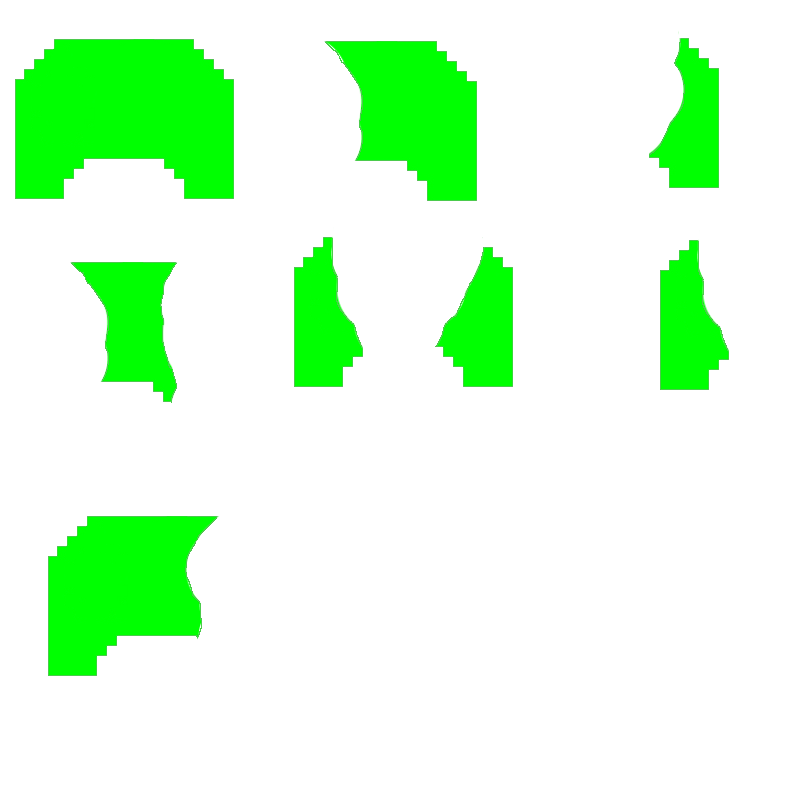
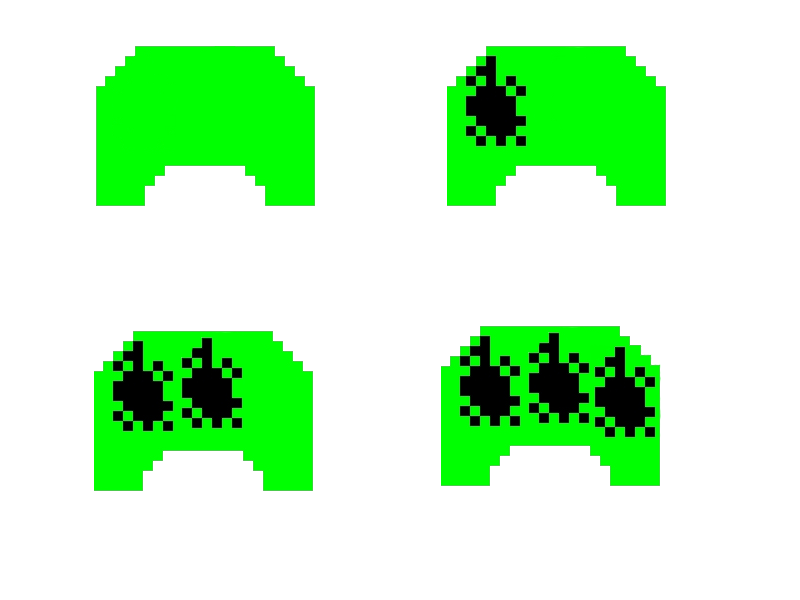
added Shields ability to die

diff --git a/Space_Invaders/Shield.cpp b/Space_Invaders/Shield.cpp
@@ -2,20 +2,19 @@
 
 SDL_Texture* Shield::m_pTexture = nullptr;
 
-Shield::Shield( float PosX, float PosY)
+Shield::Shield( float PosX, float PosY, shared_ptr<Gun> MyGun)
 {
+    m_Gun = MyGun;
+
     m_StartingPointPosition.x = PosX;
     m_StartingPointPosition.y = PosY;
-    m_ObjectSize.x = OBJECT_WIDTH;
+    m_ObjectSize.x = 1.2*OBJECT_WIDTH;
     m_ObjectSize.y = OBJECT_HEIGHT;
 
-    m_TextureDestructionLevel = {9, 33, 230, 190};
-    //m_TextureDestructionLevel = { 320, 33, 162, 190 };
-    //m_TextureDestructionLevel = { 644, 33, 79, 190 };
-    //m_TextureDestructionLevel = { 63, 258, 130, 150 };
-    //m_TextureDestructionLevel = { 291, 235, 228, 170};
-    //m_TextureDestructionLevel = { 657, 235, 73, 170 };
-    //m_TextureDestructionLevel = { 44, 504, 180, 190 };
+   // m_TextureDestructionLevel = {90, 43, 230, 190};
+   // m_TextureDestructionLevel = { 440, 43, 230, 180 };
+   // m_TextureDestructionLevel = { 90, 329, 230, 180 };
+   // m_TextureDestructionLevel = { 435, 329, 230, 170 };
 }
 
 void Shield::DestroyTexture()
@@ -32,8 +31,41 @@ void Shield::InitializeShieldTexture(SDL_Renderer* pRenderer)
 
 void Shield::Update(float DeltaTime)
 {
+    switch (m_DestructionLevel)
+    {
+    case 0:
+        m_TextureDestructionLevel = { 90, 43, 230, 190 };
+        break;
+    case 1:
+        m_TextureDestructionLevel = { 440, 43, 230, 180 };
+        break;
+    case 2:
+        m_TextureDestructionLevel = { 90, 329, 230, 180 };
+        break;
+    case 3:
+        m_TextureDestructionLevel = { 435, 329, 230, 170 };
+        break;
+    }
 
-  
+    vec2 ObjectTopLeftCorner = m_StartingPointPosition;
+    vec2 ObjectBottomRightCorner = m_StartingPointPosition + m_ObjectSize;
+
+    for (int i = 0; i < m_Gun->GetShots().size(); ++i)
+    {
+        if (m_Gun->GetShots()[i]->GetObjectPosition().x >= ObjectTopLeftCorner.x && m_Gun->GetShots()[i]->GetObjectPosition().x <= ObjectBottomRightCorner.x)
+        {
+            if (m_Gun->GetShots()[i]->GetObjectPosition().y <= ObjectBottomRightCorner.y)
+            {
+                m_DestructionLevel++;
+                m_Gun->GetShots()[i]->SetObjectStatus(false);
+            }
+        }
+    }
+
+    if (m_DestructionLevel >= 4)
+    {
+        m_ObjectIsAlive = false;
+    }
 }
 
 void Shield::Render(SDL_Renderer* pRenderer)

diff --git a/Space_Invaders/Shield.h b/Space_Invaders/Shield.h
@@ -1,10 +1,11 @@
 #pragma once
 #include "GameObject.h"
+#include "Gun.h"
 
 class Shield : public GameObject
 {
 public:
-    Shield(float PosX, float PosY);
+    Shield(float PosX, float PosY, shared_ptr<Gun> MyGun);
     void Update(float DeltaTime)override;
     void Render(SDL_Renderer* pRenderer)override;
     void SetShotStatus(vec2 &BulletPosition);
@@ -12,6 +13,8 @@ public:
     static void DestroyTexture();
 
 private:
+    shared_ptr<Gun> m_Gun;
     SDL_Rect m_TextureDestructionLevel;
     static SDL_Texture* m_pTexture;
+    int m_DestructionLevel = 0;
 };

diff --git a/Space_Invaders/Game.cpp b/Space_Invaders/Game.cpp
@@ -151,7 +151,7 @@ void Game::CreateObject()
     {
         PosX = ROW * 4.2f * OBJECT_WIDTH + OBJECT_WIDTH;
         PosY = SCREEN_HEIGHT - 3 * OBJECT_HEIGHT;
-        m_AllGameObjects.push_back(make_shared<Shield>(PosX, PosY));
+        m_AllGameObjects.push_back(make_shared<Shield>(PosX, PosY, MyGun));
     }
 
     for (int COLUMN = 0; COLUMN < 5; ++COLUMN)
